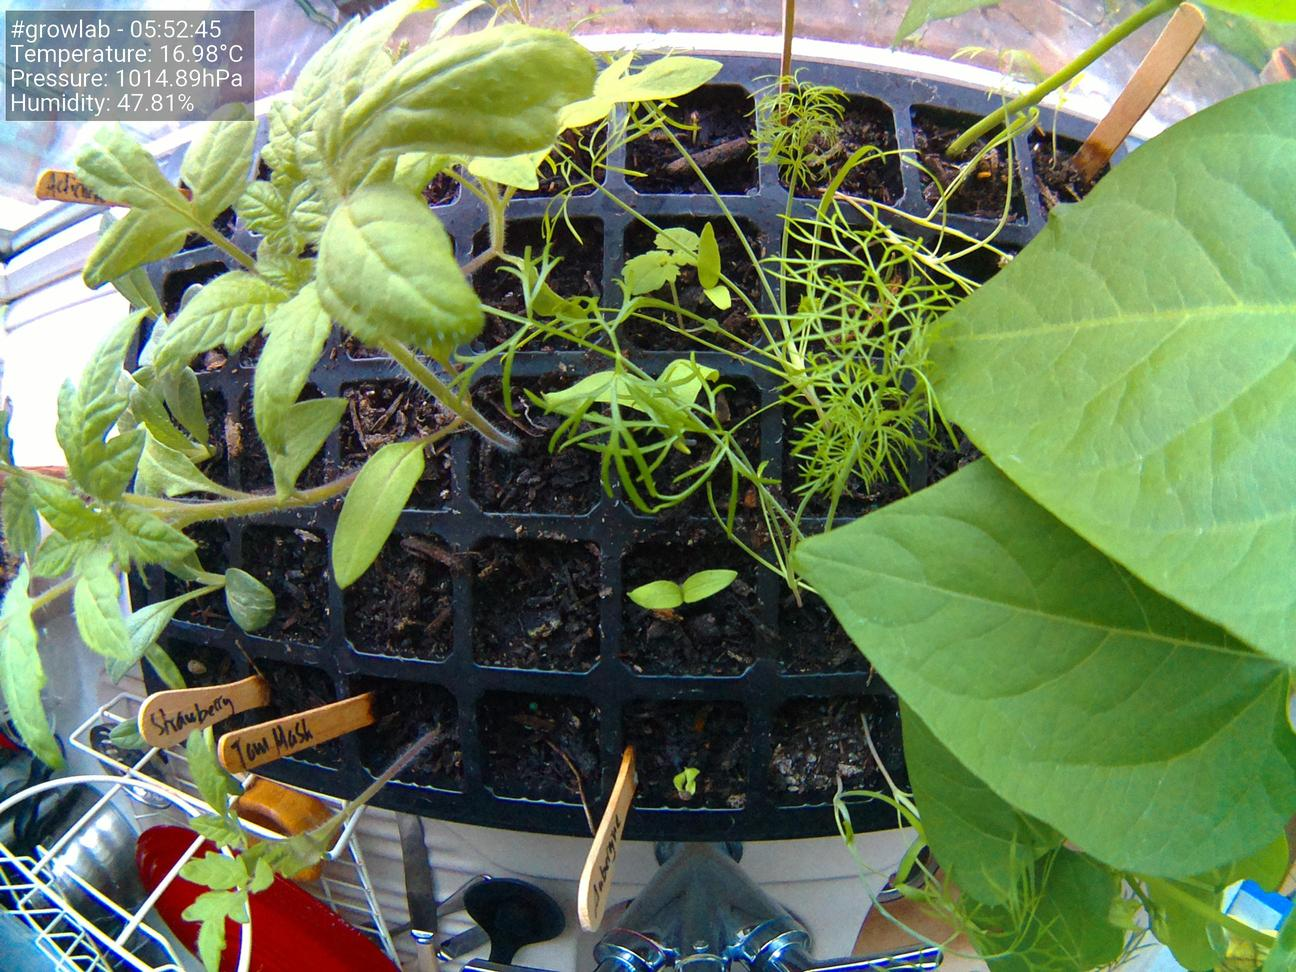
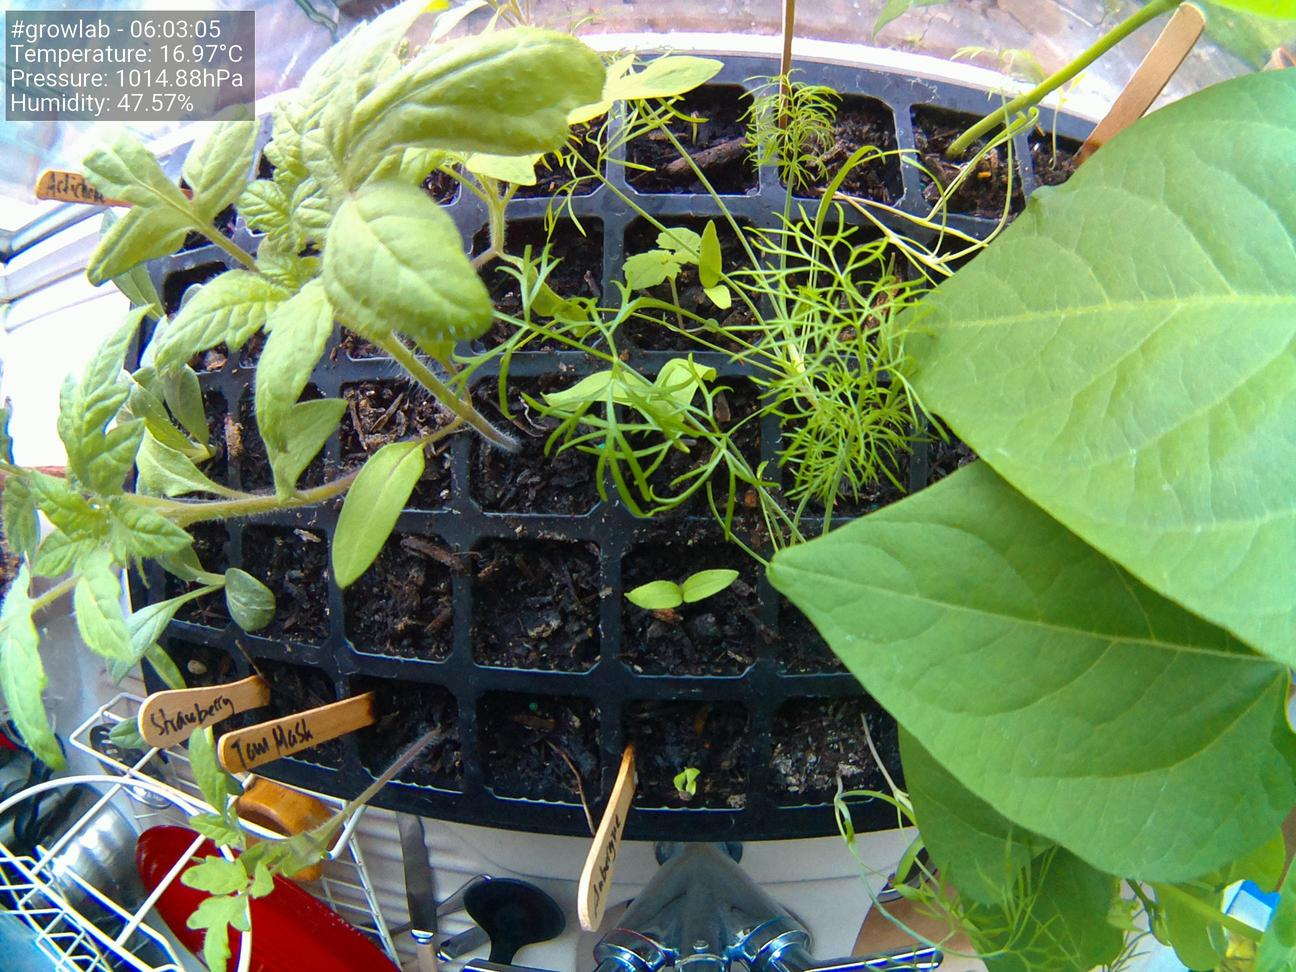
Update images at Fri 30 Apr 06:03:17 BST 2021

diff --git a/docs/index.html b/docs/index.html
@@ -38,19 +38,19 @@
                     <tbody>
                         <tr>
                             <td>Time</td>
-                            <td>05:52:45</td>
+                            <td>06:03:05</td>
                         </tr>
                         <tr>
                             <td>Temperature</td>
-                            <td>16.98°C</td>
+                            <td>16.97°C</td>
                         </tr>
                         <tr>
                             <td>Humidity</td>
-                            <td>47.81%</td>
+                            <td>47.57%</td>
                         </tr>
                         <tr>
                             <td>Pressure</td>
-                            <td>1014.89hPa</td>
+                            <td>1014.88hPa</td>
                         </tr>
                     </tbody>
                 </table>
@@ -58,7 +58,7 @@
 
                 <h5>Latest image</h5>
 		<div style="width: 85%;">
-	                <img class="figure-img img-fluid rounded" src="./preview.jpg?uid=1619758376.947966">
+	                <img class="figure-img img-fluid rounded" src="./preview.jpg?uid=1619758996.8208585">
 		</div>
             </div>
         </div>
